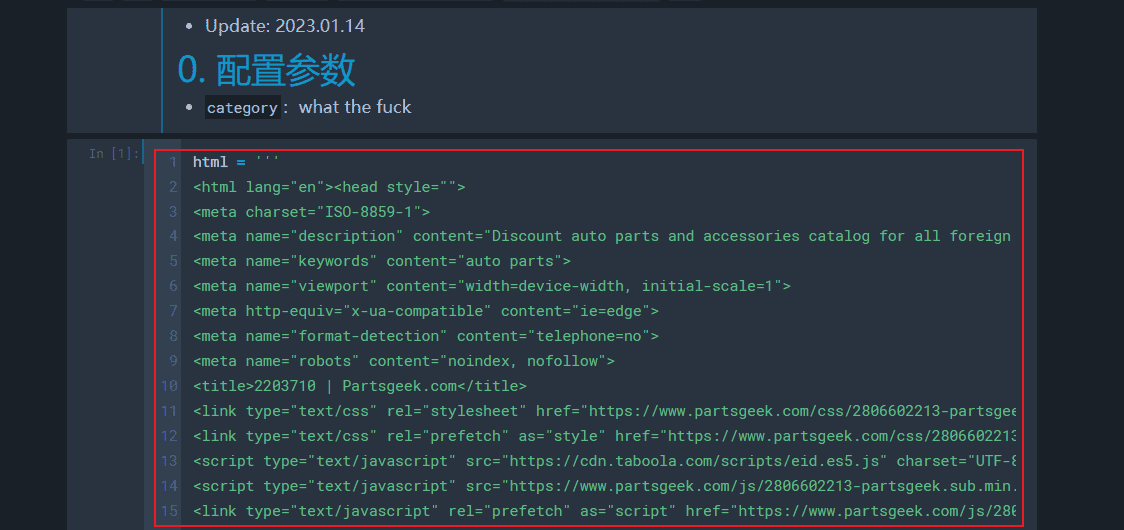
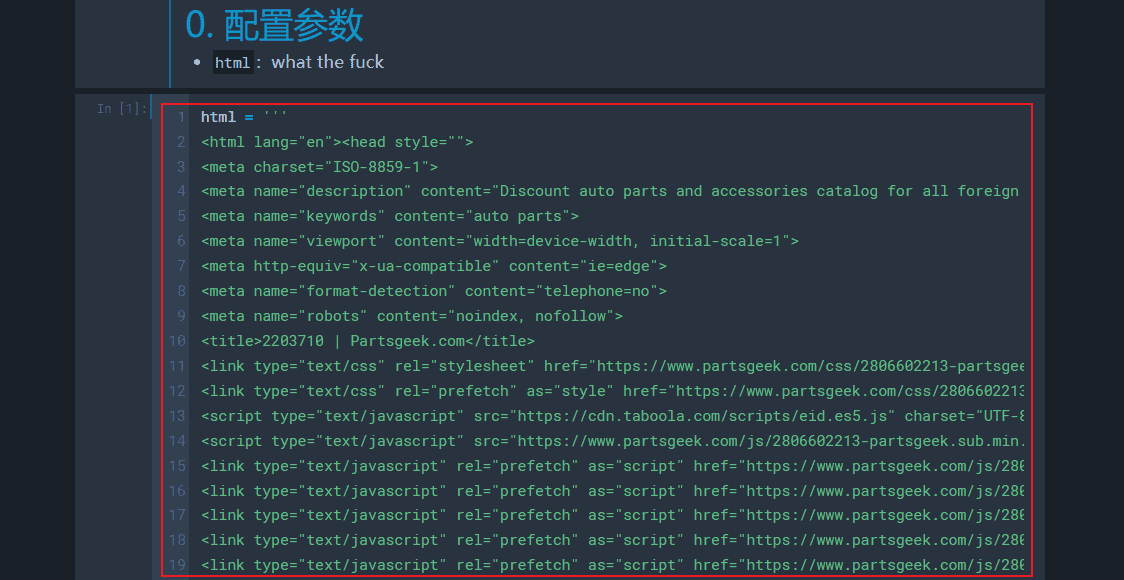
update OT

Changed region(s): [[0.0934, 0.0, 0.9342, 0.9962]]

diff --git a/5.OT/README.md b/5.OT/README.md
@@ -1,4 +1,4 @@
-# OT（Update: 2023.01.14）
+# OT（Update: 2023.02.02）
 ## 0. 流程及注意事项
 1. `Ref No.#`列
     - 复制`OE号`到[RockAuto](https://www.rockauto.com/en/partsearch/)，将可能遗漏的`dorman号`补充进去
@@ -35,11 +35,11 @@
     - ![alt pic_1_2](./pic/pic_1_2.png)
 3. 把`html`改成复制好的网页代码
     - ![alt pic_1_3](./pic/pic_1_3.png)
-4. 确认`auto`的值为`True`
+4. 确认`list_vehicle`为空
     - ![alt pic_1_4](./pic/pic_1_4.png)
 5. 运行所有代码，得到网页所有车型
     - ![alt pic_1_5](./pic/pic_1_5.png)
-6. 根据实际情况，只复制目标产品对应的车型，然后将`auto`的值改为`False`并重新运行所有代码
+6. 根据实际情况，只复制目标产品对应的车型到`list_vehicle`并重新运行所有代码
     - ![alt pic_1_6_1](./pic/pic_1_6_1.png)
     - ![alt pic_1_6_2](./pic/pic_1_6_2.png)
     - ![alt pic_1_6_3](./pic/pic_1_6_3.png)
